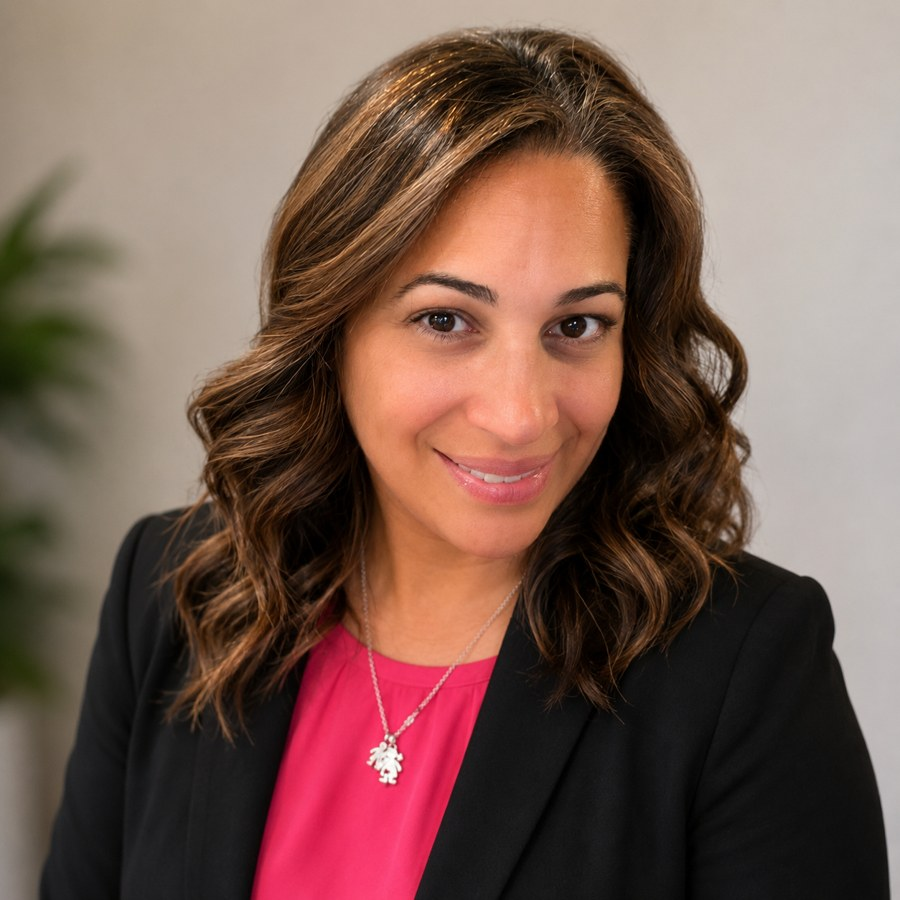
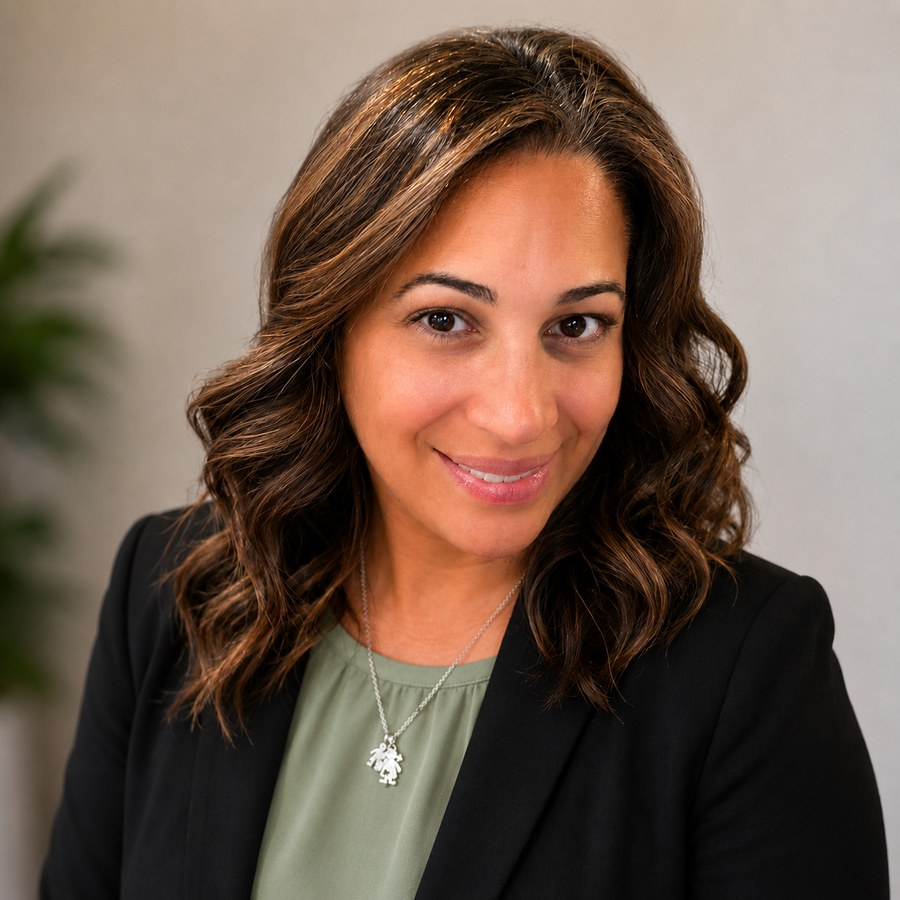
Add VP headshot, update Yuliana photo/title, drop bridge stock image
- Add Amanda Hebel (Vice President) headshot; team now lists Sarah,
  Amanda, then Yuliana as three leadership portraits.
- Replace Yuliana's photo with the new headshot and set her title to
  Treasurer and Co-Founder.
- Replace the now-redundant officers grid with a single Secretary
  recruiting banner (the three filled roles are shown as headshots).
- Remove the Picsum bridge image from the principles bento; that cell is
  now a clean full-width icon-and-text feature row.

diff --git a/src/app/sections/team.component.ts b/src/app/sections/team.component.ts
@@ -1,18 +1,11 @@
 import { ChangeDetectionStrategy, Component } from '@angular/core';
 import { RevealDirective } from '../shared/reveal.directive';
 
-interface Founder {
+interface Leader {
   name: string;
   role: string;
   img: string;
   alt: string;
-}
-
-interface Officer {
-  role: string;
-  name: string;
-  open?: boolean;
-  tentative?: boolean;
 }
 
 @Component({
@@ -30,82 +23,58 @@ interface Officer {
           </p>
         </div>
 
-        <!-- Co-founder portraits -->
-        <div class="mt-12 grid grid-cols-1 gap-6 sm:grid-cols-2 lg:max-w-3xl">
-          @for (f of founders; track f.name; let i = $index) {
+        <!-- Leadership portraits: Sarah, Amanda, Yuliana -->
+        <div class="mt-12 grid grid-cols-1 gap-6 md:grid-cols-3">
+          @for (p of leaders; track p.name; let i = $index) {
             <figure
               [mfcReveal]="i * 120"
               class="overflow-hidden rounded-card bg-paper-raised ring-1 ring-hairline"
             >
               <img
-                [src]="f.img"
-                [alt]="f.alt"
+                [src]="p.img"
+                [alt]="p.alt"
                 width="900"
                 height="1125"
                 loading="lazy"
                 class="aspect-[4/5] w-full object-cover object-top"
               />
               <figcaption class="px-6 py-5">
-                <p class="text-xl font-semibold text-forest">{{ f.name }}</p>
-                <p class="mt-1 text-sm font-medium text-emerald-700">{{ f.role }}</p>
+                <p class="text-xl font-semibold text-forest">{{ p.name }}</p>
+                <p class="mt-1 text-sm font-medium text-emerald-700">{{ p.role }}</p>
               </figcaption>
             </figure>
           }
         </div>
 
-        <!-- Officers -->
-        <h3 [mfcReveal]="0" class="mt-16 text-2xl font-semibold text-forest">Officers</h3>
-        <div class="mt-5 grid grid-cols-1 gap-4 sm:grid-cols-2 lg:grid-cols-4">
-          @for (o of officers; track o.role; let i = $index) {
-            <div
-              [mfcReveal]="i * 80"
-              class="rounded-card p-6"
-              [class.bg-paper-raised]="!o.open"
-              [class.ring-1]="!o.open"
-              [class.ring-hairline]="!o.open"
-              [class.bg-emerald-900]="o.open"
-            >
-              <p
-                class="text-xs font-bold uppercase tracking-wide"
-                [class.text-emerald-700]="!o.open"
-                [class.text-mint]="o.open"
-              >
-                {{ o.role }}
-              </p>
-
-              @if (o.open) {
-                <p class="mt-2 text-lg font-semibold text-paper">We are recruiting</p>
-                <p class="mt-2 text-sm leading-relaxed text-paper/80">
-                  If you would like to serve, we would love to hear from you.
-                </p>
-                <a
-                  [href]="secretaryHref"
-                  class="mt-4 inline-flex items-center gap-2 rounded-full bg-emerald px-4 py-2 text-sm font-semibold text-forest transition-transform duration-200 hover:-translate-y-0.5"
-                >
-                  <i class="ph-bold ph-envelope-simple"></i>
-                  Volunteer as Secretary
-                </a>
-              } @else {
-                <p
-                  class="mt-2 text-lg font-semibold"
-                  [class.text-forest]="!o.tentative"
-                  [class.text-forest-soft]="o.tentative"
-                >
-                  {{ o.name }}
-                </p>
-              }
-            </div>
-          }
+        <!-- The one role we are still filling -->
+        <div
+          [mfcReveal]="0"
+          class="mt-8 flex flex-col gap-6 rounded-card bg-emerald-900 p-8 sm:flex-row sm:items-center sm:justify-between sm:p-10"
+        >
+          <div>
+            <p class="text-xs font-bold uppercase tracking-wide text-mint">Secretary</p>
+            <p class="mt-2 text-2xl font-semibold text-paper">
+              We are still looking for a Secretary
+            </p>
+            <p class="mt-2 max-w-xl leading-relaxed text-paper/80">
+              It is the one open seat on our team. If you would like to serve, we would love
+              to hear from you.
+            </p>
+          </div>
+          <a
+            [href]="secretaryHref"
+            class="inline-flex shrink-0 items-center justify-center gap-2 rounded-full bg-emerald px-6 py-3 text-base font-semibold text-forest transition-transform duration-200 hover:-translate-y-0.5"
+          >
+            <i class="ph-bold ph-envelope-simple text-lg"></i>
+            Volunteer as Secretary
+          </a>
         </div>
       </div>
     </section>
   `,
 })
 export class TeamComponent {
-  // Photo-to-name mapping confirmed by the org: Sarah Kalil is the photo in
-  // green (founder-sarah.jpg), Yuliana Alcon is the studio photo in pink
-  // (founder-yuliana.jpg).
-  protected readonly founders: Founder[] = [
+  protected readonly leaders: Leader[] = [
     {
       name: 'Sarah Kalil',
       role: 'President and Co-Founder',
@@ -113,18 +82,17 @@ export class TeamComponent {
       alt: 'Sarah Kalil, President and co-founder of Moms for Change',
     },
     {
-      name: 'Yuliana Alcon',
-      role: 'Co-Founder and Treasurer',
-      img: 'assets/img/founder-yuliana.jpg',
-      alt: 'Yuliana Alcon, co-founder and treasurer of Moms for Change',
+      name: 'Amanda Hebel',
+      role: 'Vice President',
+      img: 'assets/img/founder-amanda.jpg',
+      alt: 'Amanda Hebel, Vice President of Moms for Change',
     },
-  ];
-
-  protected readonly officers: Officer[] = [
-    { role: 'President', name: 'Sarah Kalil' },
-    { role: 'Vice President', name: 'Amanda Hebel' },
-    { role: 'Treasurer', name: 'Yuliana Alcon' },
-    { role: 'Secretary', name: '', open: true },
+    {
+      name: 'Yuliana Alcon',
+      role: 'Treasurer and Co-Founder',
+      img: 'assets/img/founder-yuliana.jpg',
+      alt: 'Yuliana Alcon, Treasurer and co-founder of Moms for Change',
+    },
   ];
 
   protected readonly secretaryHref =

diff --git a/src/app/sections/principles.component.ts b/src/app/sections/principles.component.ts
@@ -52,27 +52,21 @@ import { RevealDirective } from '../shared/reveal.directive';
             </div>
           </article>
 
-          <!-- C: paper card with a duotone photo banner -->
+          <!-- C: full-width feature row (icon badge + text) -->
           <article
             [mfcReveal]="80"
-            class="grid grid-cols-1 overflow-hidden rounded-card bg-paper-raised ring-1 ring-hairline md:col-span-5 md:grid-cols-2"
+            class="flex flex-col gap-6 rounded-card bg-paper-raised p-8 ring-1 ring-hairline sm:flex-row sm:items-center sm:gap-8 sm:p-10 md:col-span-5"
           >
-            <div class="relative min-h-[14rem] overflow-hidden">
-              <img
-                src="https://picsum.photos/seed/berkeley-county-school-hallway/1000/700?grayscale"
-                alt=""
-                aria-hidden="true"
-                class="h-full w-full object-cover grayscale"
-              />
-              <div class="absolute inset-0 bg-emerald-900/60 mix-blend-multiply"></div>
-              <div class="absolute inset-0 bg-emerald/15"></div>
+            <div
+              class="flex h-16 w-16 shrink-0 items-center justify-center rounded-full bg-emerald/15"
+            >
+              <i class="ph-bold ph-eye text-3xl text-emerald-700"></i>
             </div>
-            <div class="p-8 sm:p-10">
-              <i class="ph-bold ph-eye text-4xl text-emerald-700"></i>
-              <h3 class="mt-6 text-2xl font-semibold">
+            <div>
+              <h3 class="text-2xl font-semibold">
                 Transparency, fairness, and open communication
               </h3>
-              <p class="mt-3 leading-relaxed text-forest-soft">
+              <p class="mt-2 max-w-3xl leading-relaxed text-forest-soft">
                 Open district decisions, fair policy, and honest communication between
                 schools and the families they answer to.
               </p>

diff --git a/CLAUDE.md b/CLAUDE.md
@@ -1,0 +1,34 @@
+# Moms for Change
+
+Angular 20 + Tailwind v4 marketing landing page (standalone components, signals, single route). Static site, no backend. Repo: github.com/Sdraugel/momsforchange.
+
+## Deploy: ONE path — Cloudflare Workers Builds (Git-connected)
+
+Hosting is a **static-assets Worker** built by Cloudflare directly from this repo on every push to `main`. Config is `wrangler.jsonc` (Worker name `momsforchange`, assets = `dist/moms-for-change/browser`, `not_found_handling: single-page-application`).
+
+- Build command: `npm run build`
+- Deploy command: `npx wrangler deploy` (non-prod branch: `npx wrangler versions upload`)
+- Custom domain `momsforchangesc.org` is bound in the Worker's Settings > Domains & Routes.
+- Validate config without uploading: `npm run build && npx wrangler deploy --dry-run`.
+
+DO NOT add a GitHub Actions or Cloudflare **Pages** workflow. An earlier "deploy to Cloudflare Pages" CI (commit eeb703c) was deliberately replaced by Workers Builds (commit 06c7394). Re-adding Pages/Actions creates a second, conflicting deploy path and leaves orphaned Worker/Pages projects. There must be exactly ONE Worker: `momsforchange`.
+
+The root `CNAME` file is a leftover GitHub-Pages convention and is NOT used by this path — ignore it; don't "fix" hosting because of it.
+
+Delete a stray/duplicate Worker with `npx wrangler delete --name <worker>`, or in the Cloudflare dash: Workers & Pages > (the extra worker) > Settings > Delete. Keep only `momsforchange`.
+
+## Node version (Angular CLI drift)
+
+Angular 20's CLI needs Node 22.x. There is no `.nvmrc` here yet; if a Cloudflare build fails with "The Angular CLI requires a minimum Node.js version", add a root `.nvmrc` containing exactly `22.22.3` — Cloudflare Workers Builds reads it automatically (this is how the marketing repo is pinned).
+
+## CDN cache rule (read before debugging a "broken" deploy)
+
+Cloudflare's edge negative-caches 404s with a long TTL. So:
+
+- If a just-deployed change "looks un-deployed," assume **browser/edge cache first** — hard-refresh, or check in a private window, before concluding the deploy failed.
+- NEVER request a not-yet-deployed hashed asset (e.g. `https://momsforchangesc.org/main-<hash>.js`) through the domain to "check" a deploy. That caches the 404 at the edge and the finished build then serves broken. If already poisoned, re-request with a cache-buster (`?cb=1`) to replace the cached 404 with a 200.
+
+## Local dev (Windows)
+
+- `npm start` = `ng serve` (http://localhost:4200); `npm run build` = prod build to `dist/moms-for-change`.
+- Stop `ng serve` before running `npm install` — Windows throws EPERM if the dev server has files locked.
